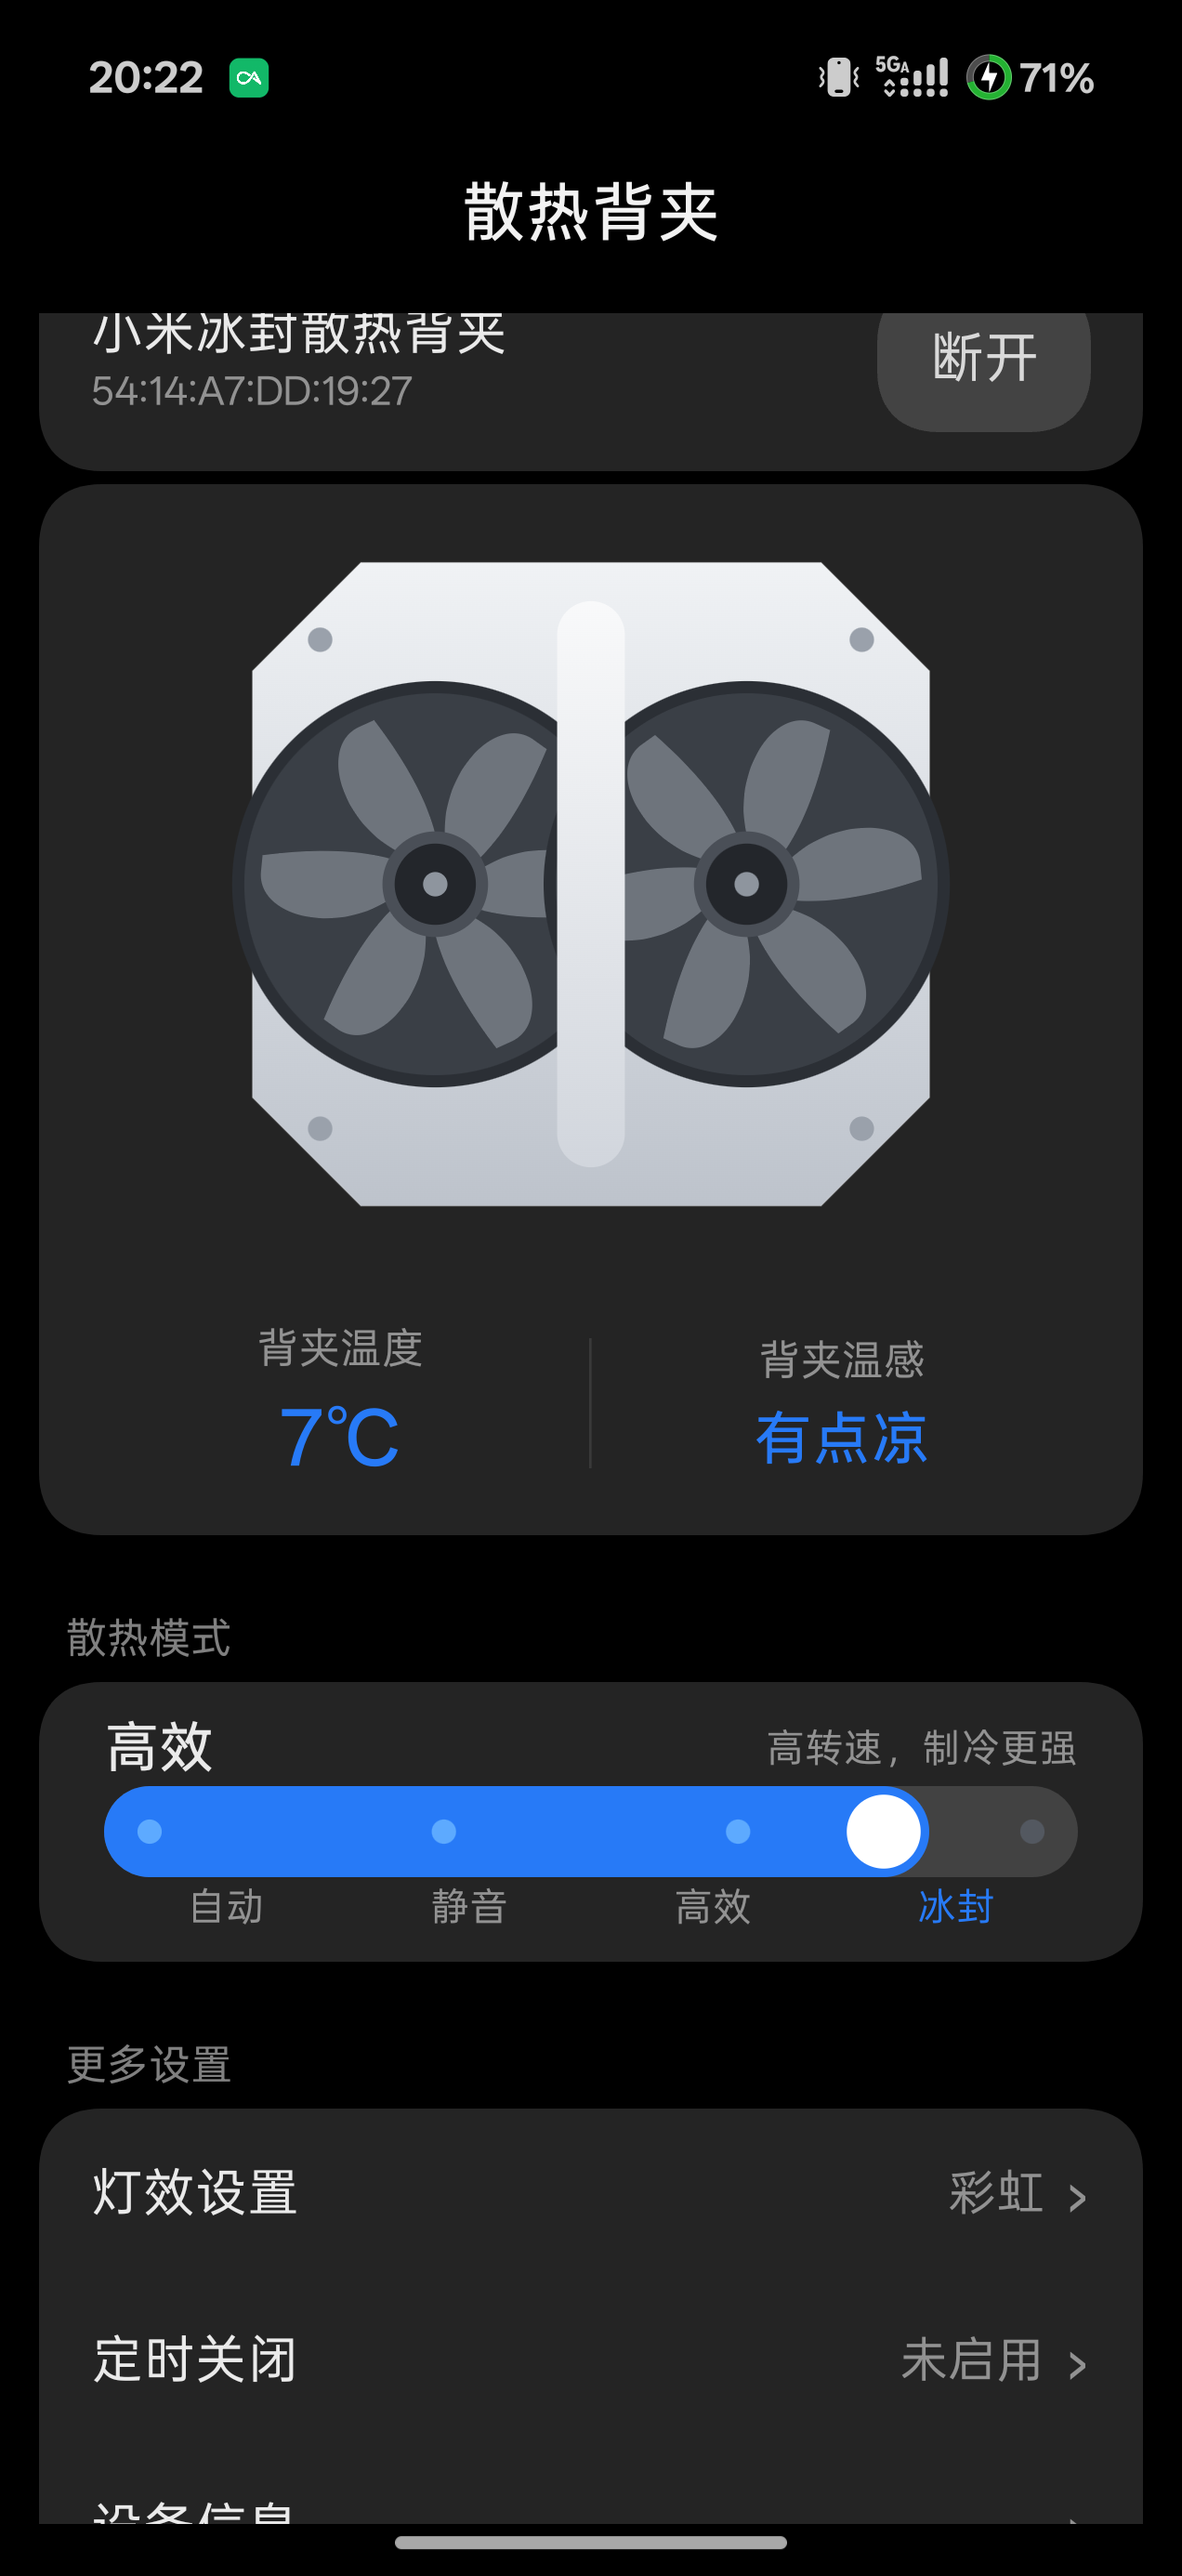
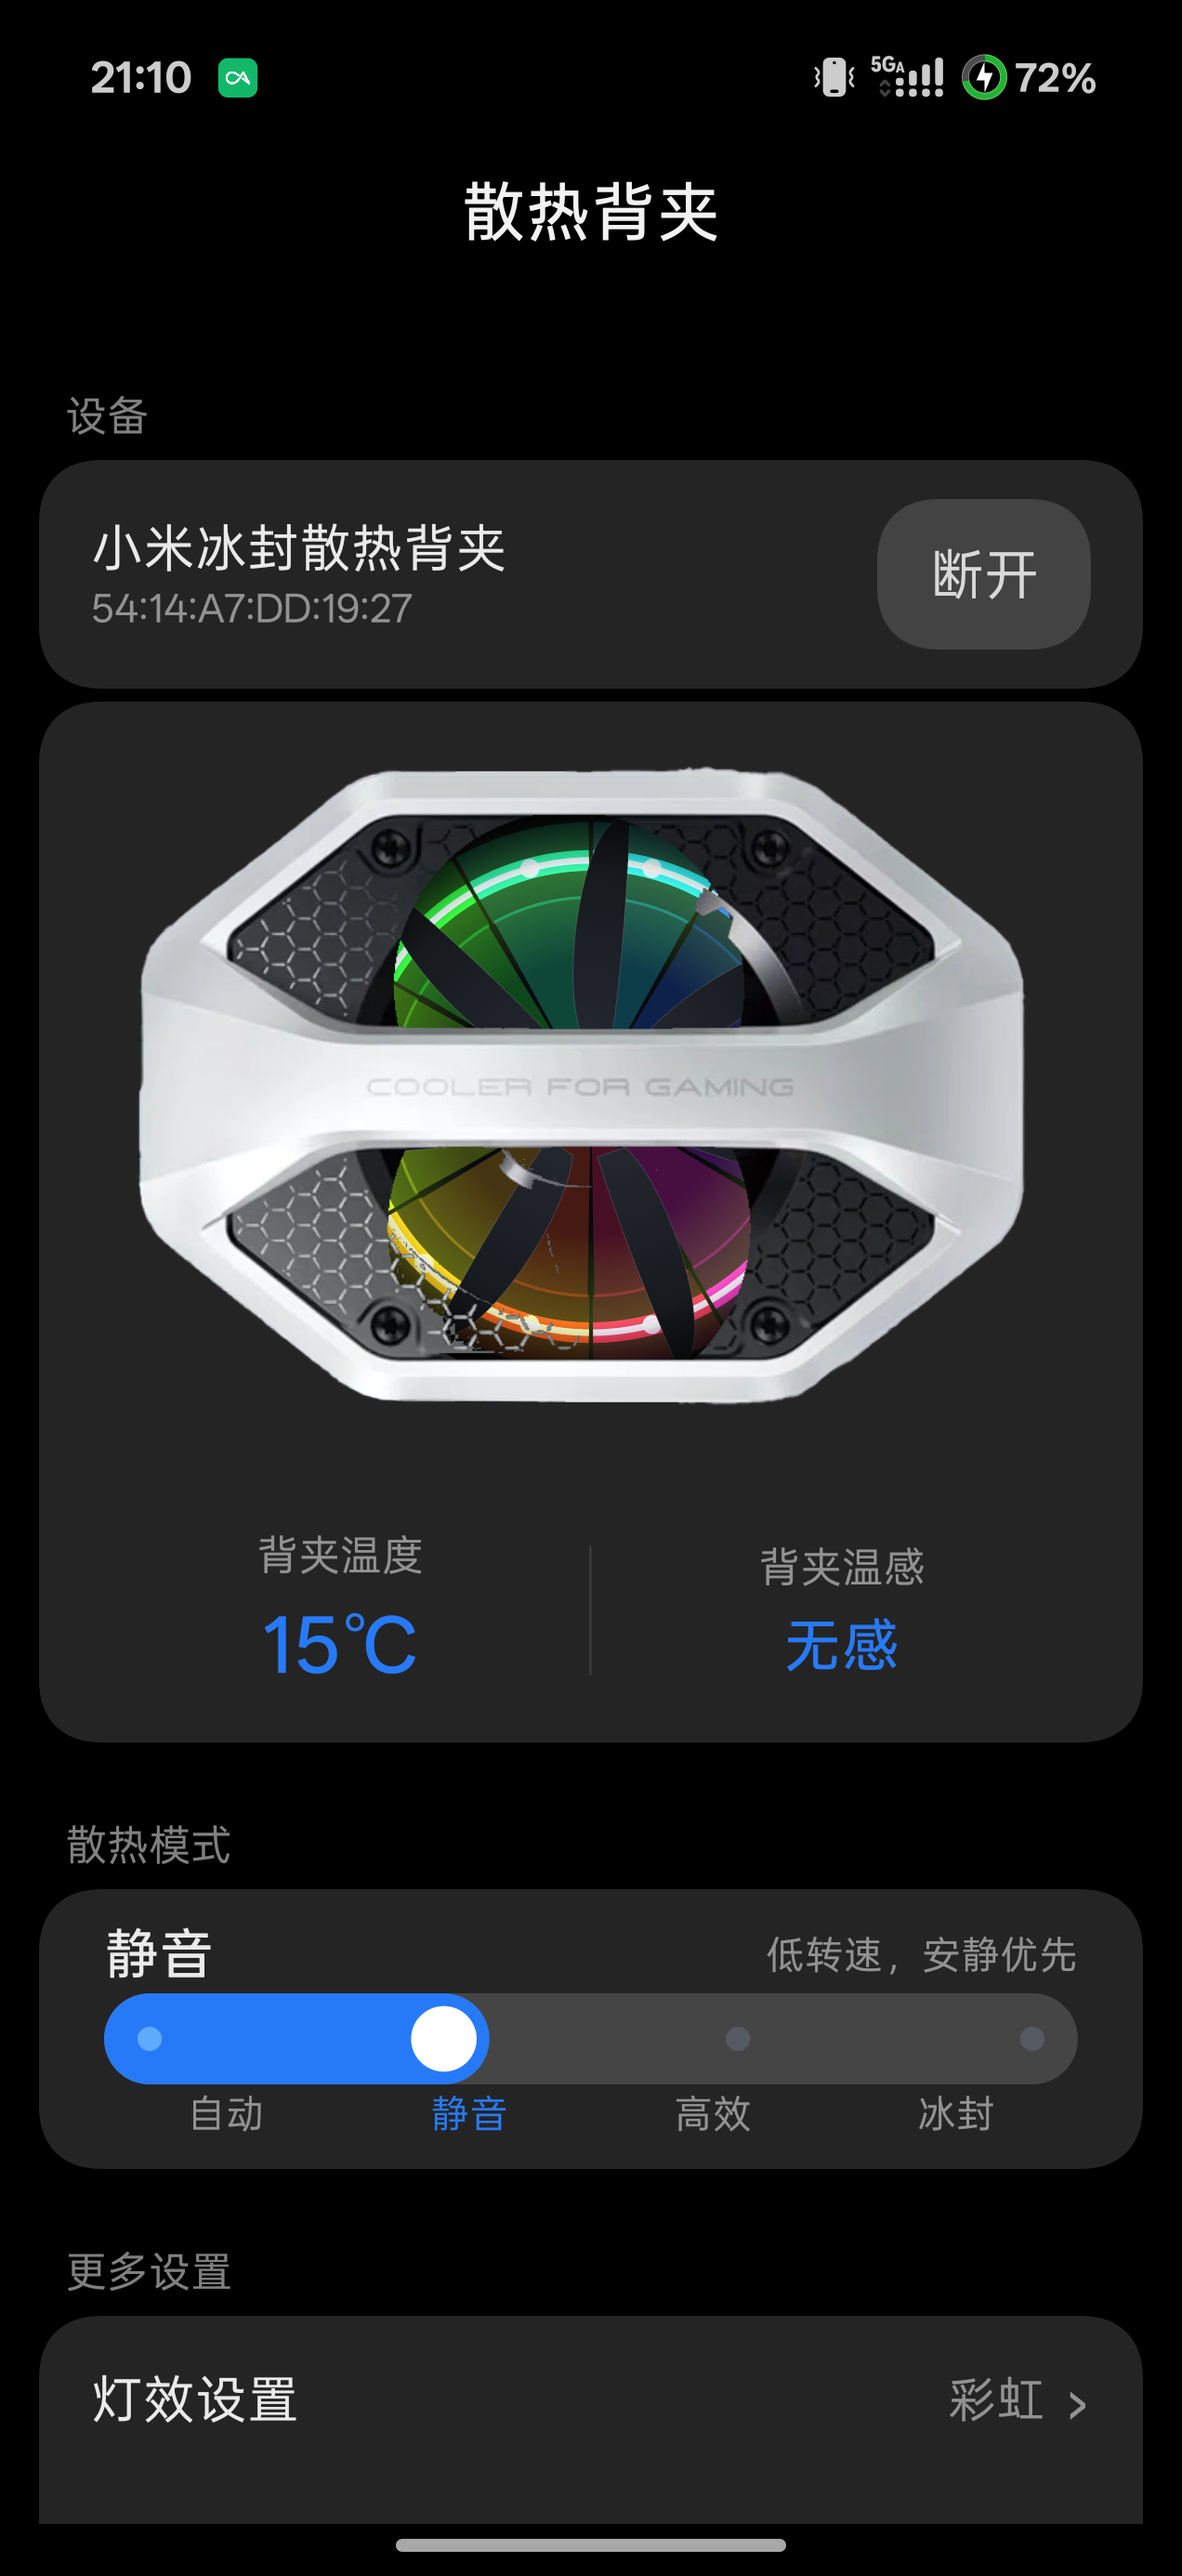
docs: 收尾 README、更新日志与截图

diff --git a/README.md b/README.md
@@ -1,28 +1,43 @@
 # 背夹控制 · CoolerControl
 
-[![Build APK](https://github.com/OWNER/CoolerControl/actions/workflows/build.yml/badge.svg)](https://github.com/OWNER/CoolerControl/actions/workflows/build.yml)
+[![Build APK](https://github.com/mingzun09/CoolerControl/actions/workflows/build.yml/badge.svg)](https://github.com/mingzun09/CoolerControl/actions/workflows/build.yml)
 [![License](https://img.shields.io/badge/license-Apache--2.0-blue.svg)](LICENSE)
 
 小米冰封散热背夹（"小米背夹"）的第三方 Android 控制 App。
 
-在**没有小米系统界面**的手机上（例如一加 15 / OxygenOS），原厂只能靠背夹上的物理按键切模式，
-没法调灯效、看温度。这个 App 复刻了 HyperOS 里那个专属设置页的全部功能。
+在没有小米系统界面的手机（如 一加 15 / OxygenOS）上，原厂只能靠背夹上的物理按键切模式，
+既调不了灯效也看不到温度。这个 App 复刻了 HyperOS 里那个专属设置页的全部功能。
 
 > 协议来自对 `com.xiaomi.bluetooth` 的静态逆向 + 真机实测，详见 [docs/protocol.md](docs/protocol.md)。
-> 本项目与小米官方无关，仅个人使用。
+> 本项目与小米官方无关，仅供个人使用。
 
 | 主页 | 灯效 | 权限 |
 |---|---|---|
-| <img src="docs/screenshots/home.png" width="240"> | <img src="docs/screenshots/light.png" width="240"> | <img src="docs/screenshots/permission.png" width="240"> |
+| <img src="docs/screenshots/home.png" width="230"> | <img src="docs/screenshots/light.png" width="230"> | <img src="docs/screenshots/permission.png" width="230"> |
 
 ## 功能
 
-- **无需配对**直接连接；已配对/上次连过的背夹进 App 自动连上
-- **实时温度**：设备约每 2–3 秒主动上报，前台服务在通知栏常驻显示
-- **四档散热模式**：自动 / 静音 / 高效 / 冰封，滑块切换
+- **无需配对**直接连接；已配对 / 上次连过的背夹进 App 自动连上
+- **实时温度**：设备每 2–3 秒上报，前台服务在通知栏常驻显示
+- **四档散热模式**：自动 / 静音 / 高效 / 冰封，滑块切换，风扇转速与模式联动
 - **灯效**：常亮 / 呼吸 / 流光 / 彩虹 / 关闭 × 单色 / 三色 / 彩色，带动画预览
 - **定时关闭**：30 分钟 / 1 小时 / 2 小时，倒计时实时走动
 - 深浅色跟随系统、断线自动重连、未连接时功能置灰
+
+## 设备示意图
+
+主页的设备图由三层 Z 轴叠加而成：
+
+1. 黑色圆形内腔
+2. 灯盘 + 扇叶（一枚，圆心固定在全局中心，半径取整体高度的 40%）
+3. 抠空的机身（外壳 + 中缝横梁）压在最上层，自然遮挡风扇中间
+
+风扇带惯性加减速与高速残影，灯效按 12 扇区绘制并叠加发光。
+
+底图 `app/src/main/assets/cooler_body.webp` **不在仓库中**（版权不属于本项目）：
+
+- 缺少该文件时自动退回自绘矢量外壳，功能不受影响
+- 想用实拍图，自己放一张同名文件进去即可（正面、比例约 897:676）
 
 ## 协议速览
 
@@ -38,14 +53,6 @@ TLV [len][type(2)][value]
 | 模式 `0x40` | 0 自动 · 1 静音 · 2 冰封 · 3 高效 |
 | 灯效 `0x42[0]` | 0 关闭 · 1 彩虹 · 2 呼吸 · 3 流光 · 4 常亮 |
 | 配色 `0x42[1]` | 0 彩色 · 1 单色 · 2 三色 |
-
-## 背夹外观图
-
-主页的设备图使用 `app/src/main/assets/cooler_body.webp` 作为底图，上面叠加两枚可旋转的风扇和灯效。
-
-- 该图片是官方产品图，**未包含在仓库中**（见 `.gitignore`），因为版权不属于本项目。
-- 没有这个文件时，App 会自动退回自绘的矢量外观图，功能不受影响。
-- 想用实拍图，自己放一张同名文件进去即可（建议正面拍摄、背景干净，比例约 897:676）。
 
 ## 构建
 
@@ -67,10 +74,13 @@ echo "sdk.dir=/path/to/Android/Sdk" > local.properties
 
 ```
 app/src/main/java/com/cooler/control/
-├── protocol/   帧编解码、TLV、属性与枚举（纯 Kotlin，有单测）
-├── ble/        GATT 客户端、状态流、自动连接、轮询
-├── service/    前台服务 + 通知栏温度
-├── ui/         主界面 / 灯效(动画预览) / 定时 / 设备信息 / 权限
+├── protocol/  帧编解码、TLV、属性与枚举（纯 Kotlin，有单测）
+├── ble/       GATT 客户端、状态流、自动连接、轮询
+├── service/   前台服务 + 通知栏温度
+├── ui/        主界面 / 灯效 / 定时 / 设备信息 / 权限
+│   ├── FanMotor.kt           风扇与灯盘绘制（运动、残影、发光环）
+│   ├── CoolerIllustration.kt 三层 Z 轴叠加与开口抠图
+│   └── LightEffect.kt        灯效取色（预览与风扇共用）
 ├── CoolerApp.kt
 ├── CoolerViewModel.kt
 └── MainActivity.kt
@@ -86,7 +96,7 @@ app/src/main/java/com/cooler/control/
 
 ## 已知问题 / 待办
 
-- 第 4 档"高效"映射到取值 3，尚未在所有固件上验证
+- “高效”映射到取值 3，尚未在所有固件上验证
 - 设备改名、固件版本读取、OTA 未实现
 - 不同固件版本可能属性表不同，App 会在缺失属性时降级显示
 

diff --git a/CHANGELOG.md b/CHANGELOG.md
@@ -1,0 +1,55 @@
+# 更新日志
+
+## 0.11.0
+
+- 设备示意图改为三层 Z 轴叠加：内腔 → 单风扇 + 单灯盘 → 抠空机身
+- 风扇圆心固定在全局中心，半径取整体高度的 40%，由中缝横梁自然遮挡
+- 风扇加入惯性加减速（900ms）与高速残影
+- 灯效改为 12 扇区 + `BlendMode.Plus` 叠层发光，含呼吸曲线与淡入淡出
+
+## 0.10.0
+
+- 每个开口各一枚风扇与灯环（过渡版本）
+
+## 0.9.0
+
+- 单灯光单风扇居中，两个开口各露一半
+
+## 0.8.0
+
+- 底图开口挖洞，风扇置于机身之后，形成真实遮挡
+
+## 0.7.0
+
+- 灯效改为分扇区灯盘，按实拍视频还原
+
+## 0.6.0
+
+- 单风扇嵌入底图开口，灯环置于叶轮之后
+
+## 0.5.0
+
+- 改用实拍底图 + 独立风扇组件（`FanMotor.kt`）
+
+## 0.4.0
+
+- 散热模式改为滑块切换
+- 自绘背夹示意图
+- 深浅色跟随系统
+
+## 0.3.0
+
+- 首次启动的权限引导页
+- 前台服务常驻 + 通知栏温度
+- 搜到设备即自动连接
+- 修正灯效与配色取值（此前整体错位一位）
+
+## 0.2.0
+
+- 修复扫描失败（错误码 1）
+- 修复通知帧被误判为命令帧
+- 修复界面被标题栏遮挡
+
+## 0.1.0
+
+- 首个可用版本：连接、实时温度、模式、灯效、定时关闭
